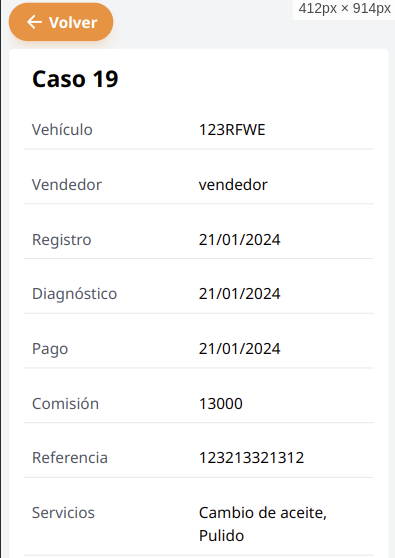
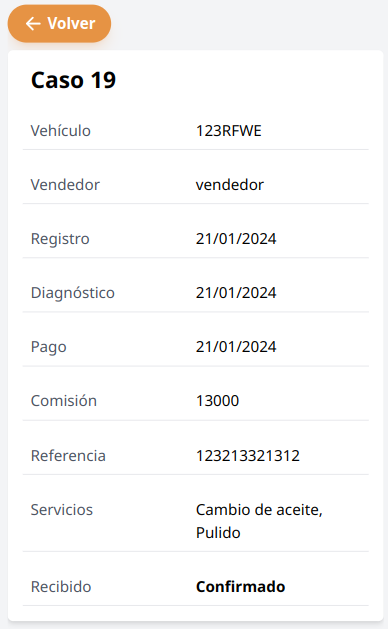
update confirm payment

diff --git a/src/content/docs/guides/payouts.md b/src/content/docs/guides/payouts.md
@@ -31,5 +31,5 @@ Para dejar los pagos por defecto borrar la búsqueda y luego en el botón buscar
 ![Tabla de pagos](../../../assets/phistory_table.png)
 
 
-Para ingresar en detalles de un pago se debe dar en la palabra de letras azules “más”, se muestra los detalles del pago, volver para salir.
+Para ingresar en detalles de un pago se debe dar en la palabra de letras azules “más”, se muestra los detalles del pago, entre ellos la confimación de recibido, volver para salir.
 ![Pago](../../../assets/payouts_detail.png)

diff --git a/src/content/docs/guides/payments.md b/src/content/docs/guides/payments.md
@@ -18,3 +18,9 @@ Para dejar los pagos por defecto borrar la búsqueda y luego en el botón buscar
 Para ingresar en detalles de un pago se debe dar en la palabra de letras azules "ver", se muestra los detalles del pago, volver para salir.
 
 ![Pago](../../../assets/payments_detail.png)
+
+## Confirmar recibido de pago
+
+Para confirmar el recibido de pago debe dar en el botón azul de confirmar, ubicado en el detalle de cada pago.
+
+![Confirmar recibido](../../../assets/payments_confirm.png)
